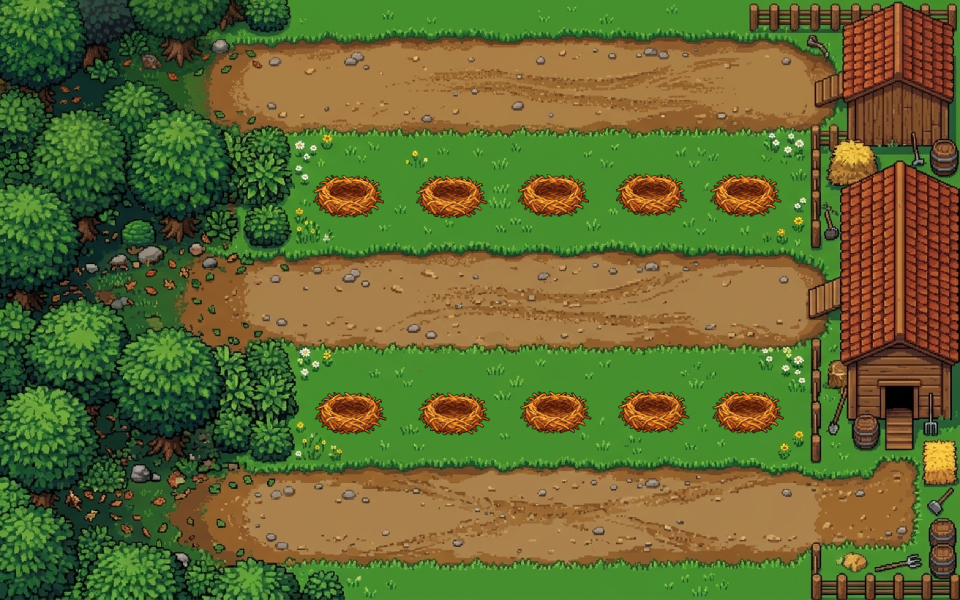
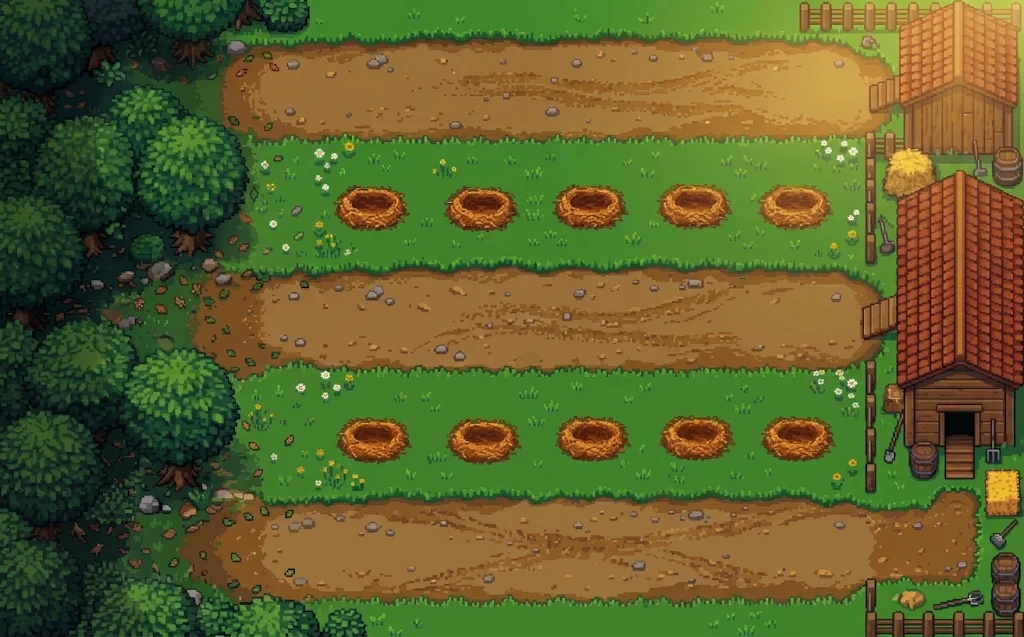
new_background

diff --git a/main.py b/main.py
@@ -45,7 +45,15 @@ janela.set_background_color((60, 48, 32))   # cor atras da UI, onde nao ha campo
 # ============================================================
 # CENÁRIO ESTÁTICO (background único)
 # ============================================================
-background = Sprite('assets/background2.png')
+imagem_fundo = pygame.image.load('assets/background2.png').convert_alpha()
+imagem_fundo = pygame.transform.smoothscale(
+    imagem_fundo,
+    (config.WINDOW_WIDTH, config.PLAYFIELD_HEIGHT)
+)
+
+pygame.image.save(imagem_fundo, 'assets/background2_redimensionado.png')
+
+background = Sprite('assets/background2_redimensionado.png')
 background.set_position(0, config.PLAYFIELD_Y)
 
 ninhos = []
@@ -168,24 +176,19 @@ slots_inventario = []
 for i, tipo in enumerate(config.ITEM_TYPES):
     slot_normal = Sprite('assets/slot_normal.png')
     slot_sel = Sprite('assets/slot_selecionado.png')
-    icone = criar_icone(ICONE_POR_ITEM[tipo], 42)
+    icone = criar_icone(ICONE_POR_ITEM[tipo], 80)
     
     x = 15 + i * (slot_normal.width + SLOT_GAP)
     y = BARRA_ITENS_Y + (BARRA_ITENS_ALTURA - slot_normal.height) / 2
     icone.set_position(x, y)
-    print(
-    tipo,
-    "posição:", icone.x, icone.y,
-    "tamanho:", icone.width, icone.height
-    )
     icone.set_scale(0.5, 0.5)
 
     slot_normal.set_position(x, y)
     slot_sel.set_position(x, y)
 
     icone.set_position(
-        x + (slot_normal.width - icone.width) / 2,
-        y + (slot_normal.height - icone.height) / 2 - 4
+        x + (slot_normal.width - icone.width) / 2 + 15,
+        y + (slot_normal.height - icone.height) / 2 +15 
     )
 
     slots_inventario.append({

diff --git a/entities.py b/entities.py
@@ -270,7 +270,7 @@ class Egg:
             self.sprite = redimensionar_ovo(sprite_path, 60)
 
         elif tipo_especial == "codorna":
-            self.sprite = redimensionar_ovo(sprite_path, 70)
+            self.sprite = redimensionar_ovo(sprite_path, 40)
 
         elif tipo_especial == "podre":
             self.sprite = redimensionar_ovo(sprite_path, 20)
